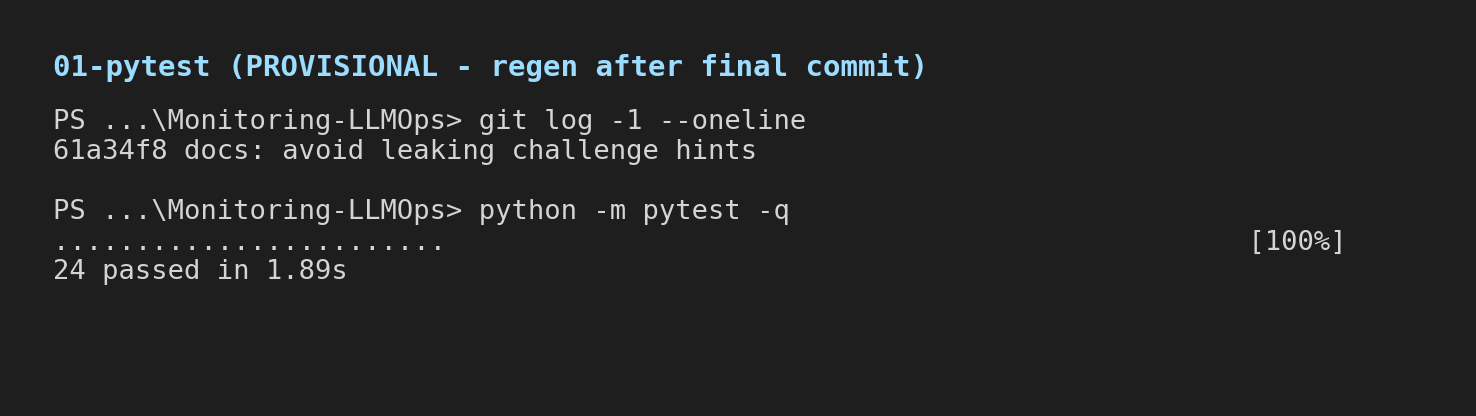
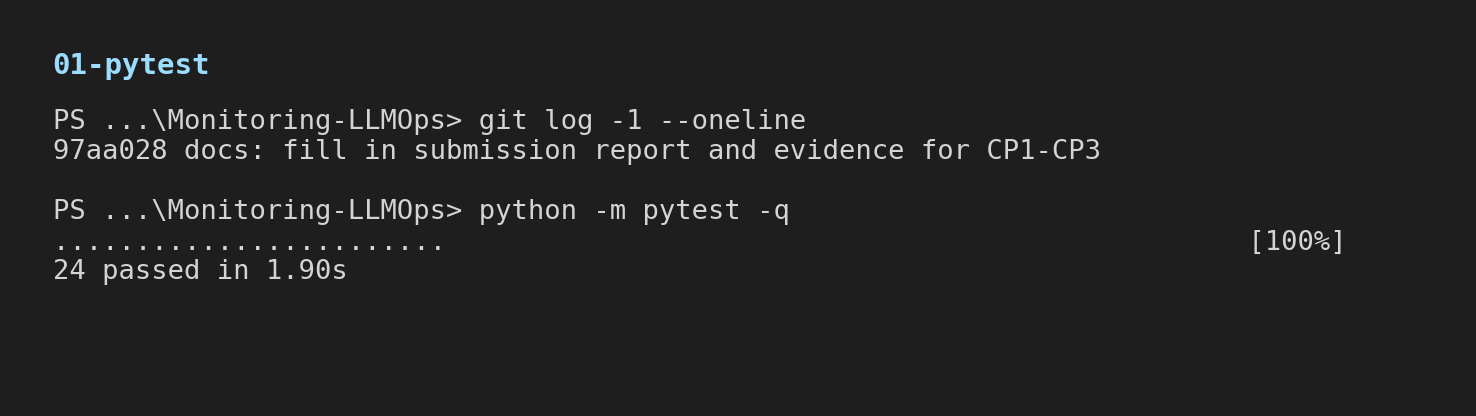
docs: record final commit SHA and regenerate pytest evidence
- REPORT.md: fill in Commit SHA cuối (97aa028)
- evidence/01-pytest.png: regenerated with real git log -1 --oneline
  output instead of the provisional placeholder commit

diff --git a/submission/REPORT.md b/submission/REPORT.md
@@ -8,7 +8,7 @@
 - **MSSV: 2A202602468**
 - **Lớp:** K4-L3B
 - **Repository URL: https://github.com/thihngD/K4-L3-DAY13-NguyenDucThinh-2A202602468-Monitoring-LLMOps**
-- **Commit SHA cuối:**
+- **Commit SHA cuối:** `97aa02832a0251f7c79825fcca6a2098fd108348`
 - **Challenge ID:** `day13-k4-l3b-monitoring-llmops-v1`
 - **Tên project Langfuse cá nhân:** `day13-k4-l3b-2A202602468`
 
@@ -18,7 +18,7 @@
 
 | Evidence | Đường dẫn |
 |---|---|
-| Pytest cuối | `evidence/01-pytest.png` (PROVISIONAL — cần chụp/tạo lại sau commit cuối để đúng mã commit thật) |
+| Pytest cuối | `evidence/01-pytest.png` |
 | Log validator | `evidence/02-log-validator.png` |
 | Dashboard validator | `evidence/03-dashboard-validator.png` |
 | Structured log | `evidence/04-structured-log.png` (`correlation_id=req-1a2b3c4d`) |
@@ -41,7 +41,7 @@
 |---|---|---|---|
 | `validate_logs.py` | 30/100 (FAILED: missing fields, correlation ID, enrichment; PASSED: PII scrubbing) | 100/100 (PASSED cả 4 mục) — `evidence/02-log-validator.png` | CP1 xong: correlation ID, enrichment, PII scrubbing |
 | `validate_dashboard.py` | 6/6 panel hợp lệ | 6/6 panel hợp lệ — `evidence/03-dashboard-validator.png` | Dashboard contract đã đủ 6 panel từ đầu |
-| `pytest` | 22 passed | 24 passed — `evidence/01-pytest.png` | Thêm 2 test CCCD/thẻ thanh toán cho `app/pii.py`; ảnh cần chụp/tạo lại sau commit cuối để có đúng mã commit |
+| `pytest` | 22 passed | 24 passed — `evidence/01-pytest.png` (commit `97aa028`) | Thêm 2 test CCCD/thẻ thanh toán cho `app/pii.py` |
 | Số traces hợp lệ | | 51 root trace (`isRootObservation=true`) — `evidence/06-trace-list.png` | Vượt tối thiểu 10 traces yêu cầu |
 | Số PII leak | 0 (validator báo 0, nhưng do thiếu field chứ chưa xác nhận scrub thật) | 0 — xác nhận cả 4 loại (email/điện thoại/CCCD/thẻ) trong cùng 1 message qua `evidence/05-pii-redaction.png` | |
 | Latency P95 / TTFT P95 | Chưa đo (dashboard chưa parse do log thiếu field) | P95 ≈ 266ms / TTFT P95 ≈ 54ms — `evidence/11-dashboard-overview.png` | Đo bằng `scripts/render_dashboard.py` trên mẫu 20 request |
